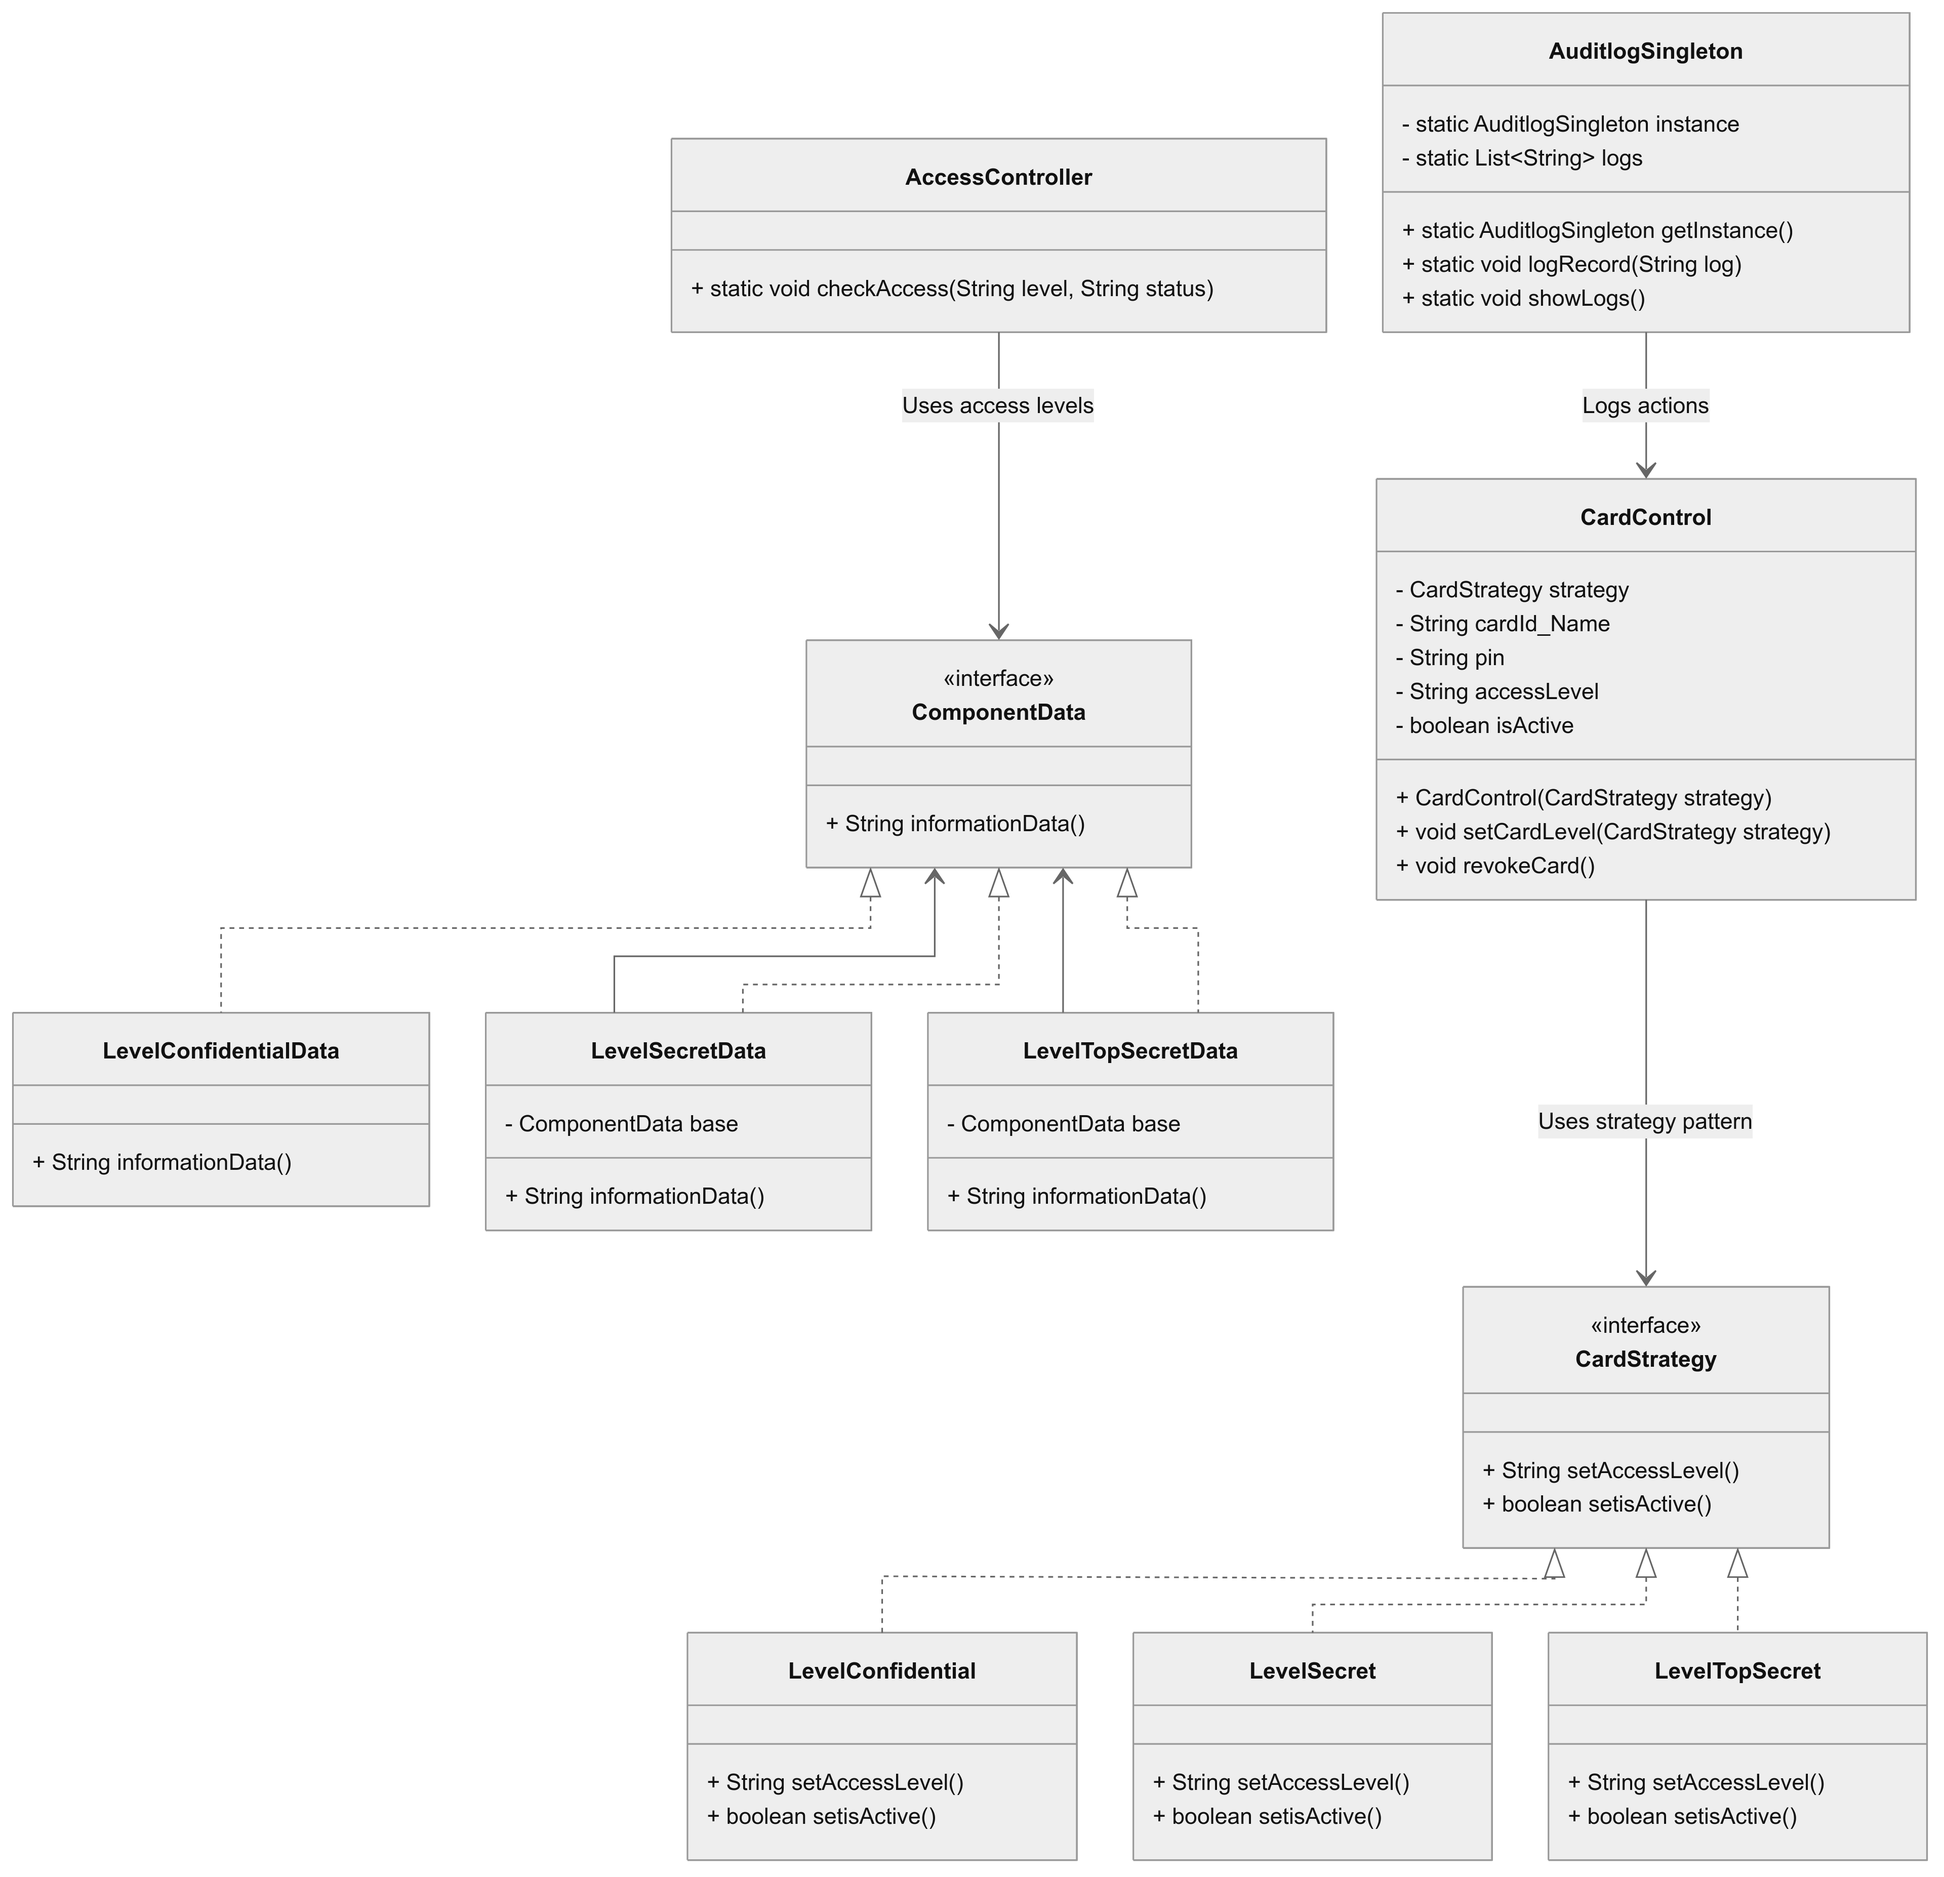
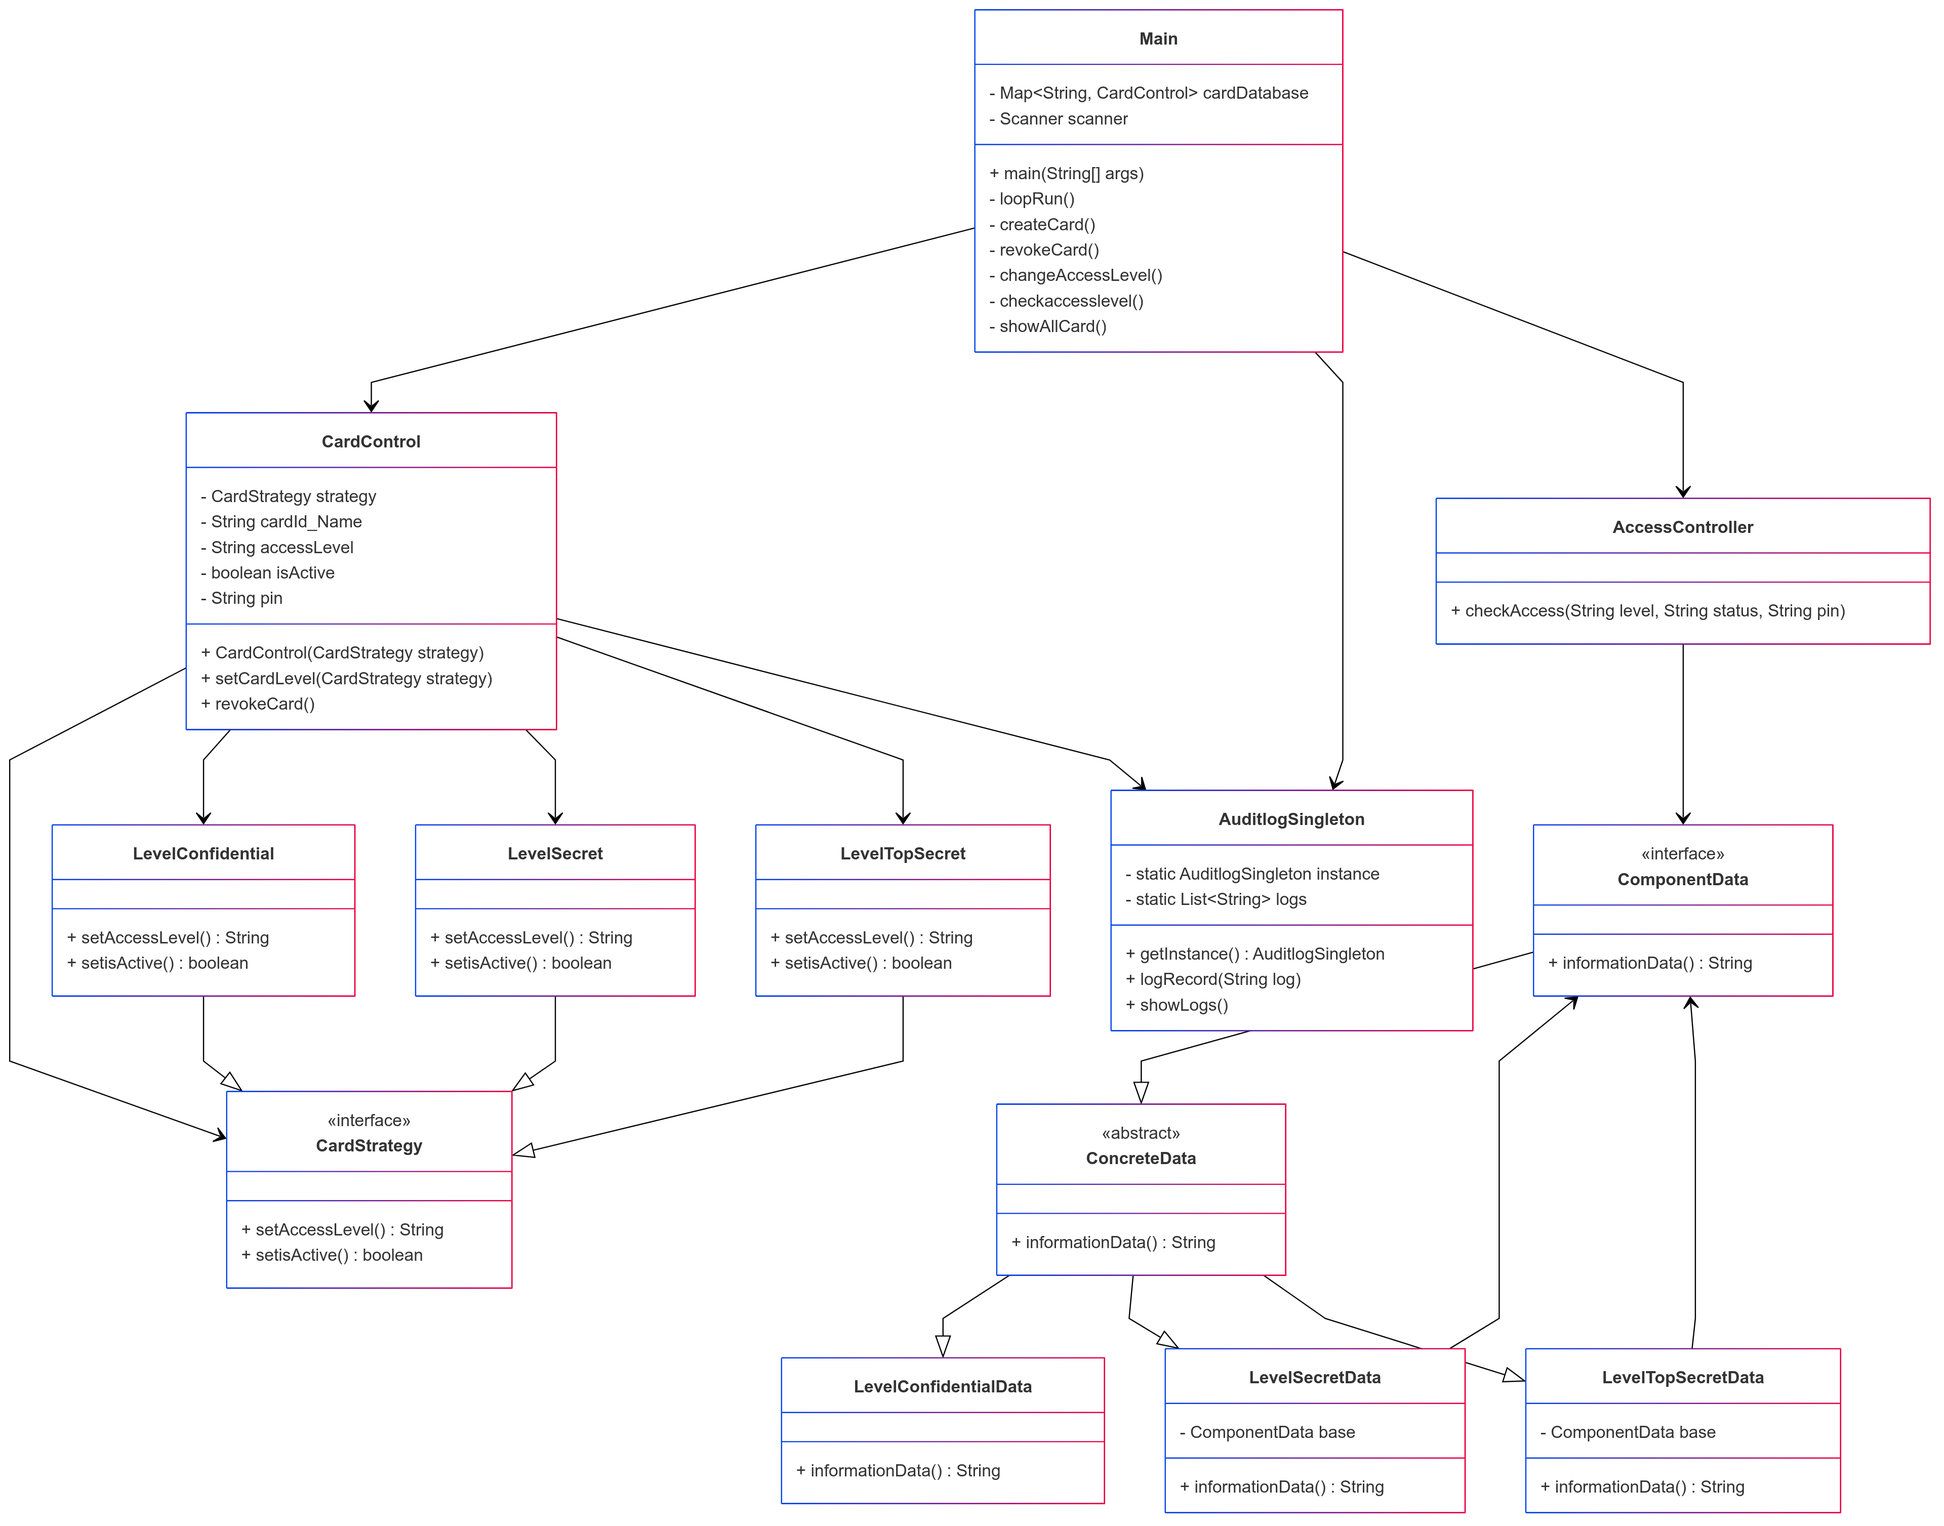
Love ME !!!

diff --git a/controller-access/src/main/java/com/example/Main.java b/controller-access/src/main/java/com/example/Main.java
@@ -15,41 +15,67 @@ public class Main {
     private static final Scanner scanner = new Scanner(System.in);
 
     public static void main(String[] args) {
+        loopRun();
+    }
+
+    private static void loopRun() {
         while (true) {
             System.out.println("\nAccess Control System");
             System.out.println("1. Create New Card");
             System.out.println("2. Revoke Access");
             System.out.println("3. Change Access Level");
-            System.out.println("4. View Card Information");
+            System.out.println("4. Check access level");
             System.out.println("5. Show Audit Logs");
-            System.out.println("6. Exit");
+            System.out.println("6. Show All Cards");
+            System.out.println("7. Exit");
             System.out.print("Select an option: ");
 
-            int choice = scanner.nextInt();
-            scanner.nextLine();
-
-            switch (choice) {
-                case 1:
-                    createCard();
-                    break;
-                case 2:
-                    revokeCard();
-                    break;
-                case 3:
-                    changeAccessLevel();
-                    break;
-                case 4:
-                    viewCard();
-                    break;
-                case 5:
-                    AuditlogSingleton.showLogs();
-                    break;
-                case 6:
-                    System.out.println("Exiting...");
-                    return;
-                default:
-                    System.out.println("Invalid option, please try again.");
+            String choice = scanner.nextLine();
+            try {
+                switch (Integer.parseInt(choice)) {
+                    case 1:
+                        createCard();
+                        break;
+                    case 2:
+                        revokeCard();
+                        break;
+                    case 3:
+                        changeAccessLevel();
+                        break;
+                    case 4:
+                        checkaccesslevel();
+                        break;
+                    case 5:
+                        AuditlogSingleton.showLogs();
+                        break;
+                    case 6:
+                        showAllCard();
+                        break;
+                    case 7:
+                        System.out.println("Exiting...");
+                        return;
+                    default:
+                        System.out.println("Invalid option, please try again.");
+                }
+            } catch (Exception e) {
+                System.out.println("Invalid option, please try again.");
             }
+        }
+    }
+
+    private static void showAllCard() {
+        System.out.println("All Cards:\n");
+        if (cardDatabase.isEmpty()) {
+            System.out.println("No cards available.");
+            return;
+        }
+        for (Map.Entry<String, CardControl> entry : cardDatabase.entrySet()) {
+            CardControl card = entry.getValue();
+            System.out.println("Name: " + card.cardId_Name);
+            System.out.println("Access Level: " + card.accessLevel);
+            System.out.println("Status: " + (card.isActive ? "Granted" : "Revoked"));
+            System.out.println("Pin: " + card.pin);
+            System.out.println("-----------------------------");
         }
     }
 
@@ -67,12 +93,21 @@ public class Main {
         switch (level) {
             case 1:
                 card = new CardControl(new LevelConfidential());
+                AuditlogSingleton
+                        .logRecord("< Create > " + card.cardId_Name + " | (L) " + card.accessLevel + " | (S) "
+                                + (card.isActive ? "Granted" : "Revoked"));
                 break;
             case 2:
                 card = new CardControl(new LevelSecret());
+                AuditlogSingleton
+                        .logRecord("< Create > " + card.cardId_Name + " | (L) " + card.accessLevel + " | (S) "
+                                + (card.isActive ? "Granted" : "Revoked"));
                 break;
             case 3:
                 card = new CardControl(new LevelTopSecret());
+                AuditlogSingleton
+                        .logRecord("< Create > " + card.cardId_Name + " | (L) " + card.accessLevel + " | (S) "
+                                + (card.isActive ? "Granted" : "Revoked"));
                 break;
             default:
                 System.out.println("Invalid level selected.");
@@ -90,6 +125,7 @@ public class Main {
         CardControl card = cardDatabase.get(name);
         if (card != null) {
             card.revokeCard();
+            System.out.println("Card revoke successfully for " + card.cardId_Name);
         } else {
             System.out.println("Card not found.");
         }
@@ -103,6 +139,14 @@ public class Main {
         if (card == null) {
             System.out.println("Card not found.");
             return;
+        } else if (!card.isActive) {
+            System.out.println("Status : Revoked (Yes / No (y/n))");
+            String choice = scanner.nextLine();
+            if (choice.equalsIgnoreCase("y")) {
+            } else {
+                System.out.println("Invalid choice.");
+                return;
+            }
         }
 
         System.out.println("Select New Access Level:");
@@ -116,19 +160,28 @@ public class Main {
         switch (level) {
             case 1:
                 card.setCardLevel(new LevelConfidential());
+                AuditlogSingleton
+                        .logRecord("< Change > " + card.cardId_Name + " | (L) " + card.accessLevel + " | (S) "
+                                + (card.isActive ? "Granted" : "Revoked"));
                 break;
             case 2:
                 card.setCardLevel(new LevelSecret());
+                AuditlogSingleton
+                        .logRecord("< Change > " + card.cardId_Name + " | (L) " + card.accessLevel + " | (S) "
+                                + (card.isActive ? "Granted" : "Revoked"));
                 break;
             case 3:
                 card.setCardLevel(new LevelTopSecret());
+                AuditlogSingleton
+                        .logRecord("< Change > " + card.cardId_Name + " | (L) " + card.accessLevel + " | (S) "
+                                + (card.isActive ? "Granted" : "Revoked"));
                 break;
             default:
                 System.out.println("Invalid level selected.");
         }
     }
 
-    private static void viewCard() {
+    private static void checkaccesslevel() {
         System.out.print("Enter Card Holder Name: ");
         String name = scanner.nextLine();
 
@@ -144,6 +197,6 @@ public class Main {
         System.out.println("Status: " + (card.isActive ? "Granted" : "Revoked"));
 
         System.out.println("Accessing classified information:");
-        AccessController.checkAccess(card.accessLevel, (card.isActive ? "Granted" : "Revoked"));
+        AccessController.checkAccess(card.accessLevel, (card.isActive ? "Granted" : "Revoked"), card.pin);
     }
 }

diff --git a/controller-access/src/main/java/com/example/addcards_setpermissions/CardControl.java b/controller-access/src/main/java/com/example/addcards_setpermissions/CardControl.java
@@ -2,6 +2,8 @@ package main.java.com.example.addcards_setpermissions;
 
 import main.java.com.example.addcards_setpermissions.levelCard.CardStrategy;
 import main.java.com.example.eventlog.AuditlogSingleton;
+import java.text.SimpleDateFormat;
+import java.util.Date;
 import java.util.Scanner;
 
 public class CardControl {
@@ -9,6 +11,11 @@ public class CardControl {
     public String cardId_Name;
     public String accessLevel;
     public boolean isActive;
+    public String pin; // จะต้องมาผ่านตัว Encrypt
+
+    private static String pattern = "MMddyyyy";
+    private static SimpleDateFormat simpleDateFormat = new SimpleDateFormat(pattern); // ใช้ในการเปลี่ยนรูปแบบ วัน
+    String pins = simpleDateFormat.format(new Date());
 
     public CardControl(CardStrategy strategy) {
         System.out.print("Enter Card Holder Name: ");
@@ -20,22 +27,20 @@ public class CardControl {
 
     public void setCardLevel(CardStrategy strategy) { // เปลี่ยนระดับการเข้าถึง
         this.strategy = strategy;
-        AuditlogSingleton.logRecord("Method : setCardLevel (Change Clearance Holder) | " + this.cardId_Name + // savelogตามหลักควรจะเก็บค่าเก่า
-                " | Last : " + this.accessLevel + " Clearance Holder State:" +
-                this.isActive + " to New  : " + this.accessLevel +
-                " Clearance Holder State:" + (this.isActive ? "Granted" : "Revoked"));
         this.accessLevel = strategy.setAccessLevel();
         this.isActive = strategy.setisActive();
-        System.out.println("!! New " + this.accessLevel + // แสดงผลว่าสำเร็จ
-                " Clearance Holder | Name: " + this.cardId_Name + " | State:"
-                + (this.isActive ? "Granted" : "Revoked"));
+        this.pin = this.accessLevel.equalsIgnoreCase("Confidential")
+                ? String.format("%sCT%s", pins.substring(0, 4), pins.substring(4))
+                : this.accessLevel.equalsIgnoreCase("Secret")
+                        ? String.format("%sST%s", pins.substring(0, 4), pins.substring(4))
+                        : String.format("%sTS%s", pins.substring(0, 4), pins.substring(4));
     }
 
     public void revokeCard() {
         this.isActive = false;
-        AuditlogSingleton.logRecord("Method : revokeCard (Revoke Clearance Holder) | " + this.cardId_Name + // save log
-                " | " + this.accessLevel + " Clearance Holder State:Revoked");
-        System.out.println("!! Revoke " + this.accessLevel + // แสดงผลว่าสำเร็จ
-                " Clearance Holder | Name: " + this.cardId_Name + " | State:Revoked");
+        AuditlogSingleton
+                .logRecord("< Revoke > " + cardId_Name + " | (L) " + accessLevel + " | (S) "
+                        + (isActive ? "Granted" : "Revoked"));
+        System.out.println("!! Revoke Card");
     }
 }

diff --git a/controller-access/src/main/java/com/example/accessAuthentication/AccessController.java b/controller-access/src/main/java/com/example/accessAuthentication/AccessController.java
@@ -9,15 +9,19 @@ import main.java.com.example.accessAuthentication.informationlevel.LevelTopSecre
 
 public class AccessController {
 
-    public static void checkAccess(String level, String status) {
-        if (level.equalsIgnoreCase("Confidential") && status.equals("Granted")) {
+    public static void checkAccess(String level, String status, String pin) { // pin จะต้องมาผ่านตัว Decrypt
+
+        if (level.equalsIgnoreCase("Confidential") && status.equals("Granted")
+                && pin.substring(4, 6).equals("CT")) {
             ComponentData levelConfidential = new LevelConfidential();
             System.out.println(levelConfidential.informationData());
-        } else if (level.equalsIgnoreCase("Secret") && status.equals("Granted")) {
+        } else if (level.equalsIgnoreCase("Secret") && status.equals("Granted")
+                && pin.substring(4, 6).equals("ST")) {
             ComponentData levelConfidential = new LevelConfidential();
             ComponentData levelSecret = new LevelSecret(levelConfidential);
             System.out.println(levelSecret.informationData());
-        } else if (level.equalsIgnoreCase("Top Secret") && status.equals("Granted")) {
+        } else if (level.equalsIgnoreCase("Top Secret") && status.equals("Granted")
+                && pin.substring(4, 6).equals("TS")) {
             ComponentData levelConfidential = new LevelConfidential();
             ComponentData levelSecret = new LevelSecret(levelConfidential);
             ComponentData levelTopSecret = new LevelTopSecret(levelSecret);

diff --git a/controller-access/src/main/java/com/example/eventlog/AuditlogSingleton.java b/controller-access/src/main/java/com/example/eventlog/AuditlogSingleton.java
@@ -1,11 +1,16 @@
 package main.java.com.example.eventlog;
 
+import java.text.SimpleDateFormat;
 import java.util.ArrayList;
 import java.util.List;
 import java.util.Date;
 
 public class AuditlogSingleton {
     private static AuditlogSingleton instance;
+    private static String pattern = "MM/dd/yyyy";
+
+    private static SimpleDateFormat simpleDateFormat = new SimpleDateFormat(pattern); // ใช้ในการเปลี่ยนรูปแบบ วัน
+
     private static List<String> logs = new ArrayList<>();
 
     private AuditlogSingleton() {
@@ -22,7 +27,7 @@ public class AuditlogSingleton {
     }
 
     public static void logRecord(String log) {
-        logs.add(new Date() + " | " + log);
+        logs.add(simpleDateFormat.format(new Date()) + " | " + log);
     }
 
     public static void showLogs() { // คำสั่งโชว์ AuditLog ทั้งหมดในตอนนี้
